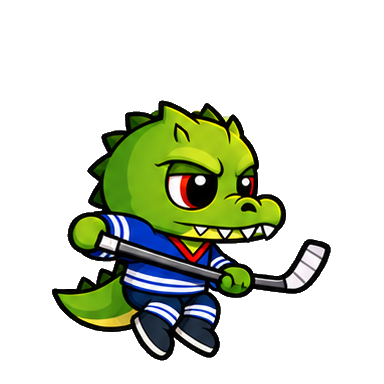
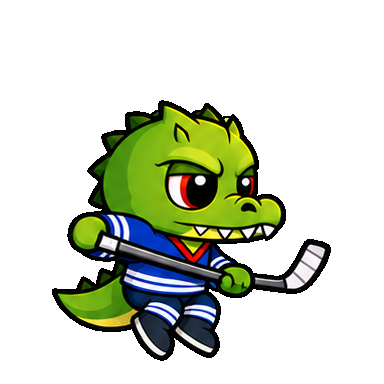
Deploy hero HQ v6 1788910633

diff --git a/assets/index-B0GLzztb.js b/assets/index-B0GLzztb.js
@@ -6357,14 +6357,14 @@ return new `+this.key+`();
  * @author       Richard Davey <rich@phaser.io>
  * @copyright    2013-2025 Phaser Studio Inc.
  * @license      {@link https://opensource.org/licenses/MIT|MIT License}
- */p.exports={Format:t(27902),Pad:t(41836),RemoveAt:t(33628),Reverse:t(27671),UppercaseFirst:t(35355),UUID:t(45650)}})},Z={};function $(p){var S=Z[p];if(S!==void 0)return S.exports;var t=Z[p]={exports:{}};return b[p](t,t.exports,$),t.exports}$.g=(function(){if(typeof globalThis=="object")return globalThis;try{return this||new Function("return this")()}catch{if(typeof window=="object")return window}})();var Q=$(85454);return Q})())})(Gt)),Gt.exports}var de=fe();const ct=le(de),Ht="notebook-grid-cell",Tt=28;function ve(tt){if(tt.textures.exists(Ht))return;const et=document.createElement("canvas");et.width=Tt,et.height=Tt;const b=et.getContext("2d");b&&(b.fillStyle="#f4f1e8",b.fillRect(0,0,Tt,Tt),b.strokeStyle="#9eb6d4",b.lineWidth=1,b.beginPath(),b.moveTo(Tt-.5,0),b.lineTo(Tt-.5,Tt),b.moveTo(0,Tt-.5),b.lineTo(Tt,Tt-.5),b.stroke(),tt.textures.addCanvas(Ht,et))}function Ut(tt,et=-20){ve(tt);const{width:b,height:Z}=tt.scale,$=tt.add.tileSprite(0,0,Math.max(b,1),Math.max(Z,1),Ht).setOrigin(0,0).setScrollFactor(0).setDepth(et),Q=p=>{$.setSize(p.width,p.height)};return tt.scale.on("resize",Q),tt.events.once(ct.Scenes.Events.SHUTDOWN,()=>{tt.scale.off("resize",Q)}),$}const Pt="#1f2a44",bt="#4a5a78",Zt="pickup-key";function ce(tt){if(tt.textures.exists(Zt))return;const et=48,b=28,Z=document.createElement("canvas");Z.width=et,Z.height=b;const $=Z.getContext("2d");$&&($.strokeStyle=Pt,$.fillStyle="#e8c86a",$.lineWidth=2.2,$.lineJoin="round",$.lineCap="round",$.beginPath(),$.arc(12,14,9,0,Math.PI*2),$.fill(),$.stroke(),$.beginPath(),$.arc(12,14,4,0,Math.PI*2),$.stroke(),$.beginPath(),$.moveTo(20,14),$.lineTo(42,14),$.stroke(),$.beginPath(),$.moveTo(34,14),$.lineTo(34,20),$.moveTo(40,14),$.lineTo(40,22),$.stroke(),tt.textures.addCanvas(Zt,Z))}class pe extends ct.Scene{constructor(){super("boot")}preload(){const et="/DundeeGame3.0/";this.load.spritesheet("crocodile",`${et}assets/crocodile-hero/dundee-hockey-v5.png`,{frameWidth:256,frameHeight:256}),this.load.image("platform",`${et}assets/platform_static.png`),this.load.image("saw",`${et}assets/saw_blade.png`),this.load.image("spikes",`${et}assets/spike_trap.png`),this.load.image("spikes5",`${et}assets/spikes_5.png`),this.load.image("pendulum",`${et}assets/pendulum.png`)}create(){ce(this),this.textures.get("crocodile").setFilter(ct.Textures.FilterMode.LINEAR),this.anims.create({key:"idle",frames:this.anims.generateFrameNumbers("crocodile",{start:0,end:3}),frameRate:4,repeat:-1}),this.anims.create({key:"run",frames:this.anims.generateFrameNumbers("crocodile",{start:4,end:7}),frameRate:10,repeat:-1}),this.anims.create({key:"jump",frames:this.anims.generateFrameNumbers("crocodile",{start:8,end:11}),frameRate:8,repeat:0}),this.anims.create({key:"lie",frames:this.anims.generateFrameNumbers("crocodile",{start:12,end:15}),frameRate:6,repeat:-1}),this.scene.start("menu")}}function Et(){var tt;return((tt=window.Telegram)==null?void 0:tt.WebApp)??null}function zt(){var tt;return((tt=Et())==null?void 0:tt.initData)??""}const Nt="".replace(/\/$/,"");function Bt(){return!!Nt&&!Nt.includes("localhost")}async function St(tt,et){if(!Nt)throw new Error("API offline");const b={"content-type":"application/json","x-telegram-init-data":zt(),...et==null?void 0:et.headers};let Z;try{Z=await fetch(`${Nt}${tt}`,{...et,headers:b,body:(et==null?void 0:et.json)!==void 0?JSON.stringify(et.json):et==null?void 0:et.body})}catch{throw new Error("API unreachable")}const $=await Z.json().catch(()=>({}));if(!Z.ok)throw new Error($.message??$.error??`HTTP ${Z.status}`);return $}const wt=ct.Display.Color.HexStringToColor(Pt).color;function Jt(tt,et,b,Z){tt.beginPath();for(let Q=0;Q<=28;Q++){const p=Q/28*Math.PI*2,S=1+Math.sin(Q*2.3)*.04+Math.cos(Q*1.7)*.03,t=et+Math.cos(p)*Z*S,d=b+Math.sin(p)*Z*S;Q===0?tt.moveTo(t,d):tt.lineTo(t,d)}tt.closePath(),tt.strokePath()}function Qt(tt,et,b,Z,$,Q){const p=et-Z/2,S=et+Z/2,t=b-$/2,d=b+$/2,c=Math.min(Q,Z/2,$/2),h=(s,o,i)=>{const a=1+Math.sin(i*1.9)*.012+Math.cos(i*2.4)*.01;return{x:et+(s-et)*a,y:b+(o-b)*a}},r=[],n=(s,o,i,a)=>{for(let f=0;f<=8;f++){const u=i+(a-i)*f/8;r.push(h(s+Math.cos(u)*c,o+Math.sin(u)*c,r.length))}},e=(s,o,i,a,l)=>{for(let f=1;f<l;f++){const u=f/l;r.push(h(s+(i-s)*u,o+(a-o)*u,r.length))}};n(p+c,t+c,Math.PI,Math.PI*1.5),e(p+c,t,S-c,t,12),n(S-c,t+c,-Math.PI/2,0),e(S,t+c,S,d-c,6),n(S-c,d-c,0,Math.PI/2),e(S-c,d,p+c,d,12),n(p+c,d-c,Math.PI/2,Math.PI),e(p,d-c,p,t+c,6),tt.beginPath(),r.forEach((s,o)=>{o===0?tt.moveTo(s.x,s.y):tt.lineTo(s.x,s.y)}),tt.closePath(),tt.strokePath()}function me(tt,et,b,Z){const $=Z==="up"?b-12:b+12,Q=Z==="up"?b+10:b-10;tt.beginPath(),tt.moveTo(et-16,Q),tt.lineTo(et,$),tt.lineTo(et+16,Q),tt.strokePath(),tt.beginPath(),tt.moveTo(et-14,Q-(Z==="up"?1:-1)),tt.lineTo(et,$+(Z==="up"?2:-2)),tt.lineTo(et+14,Q+(Z==="up"?1:-1)),tt.strokePath()}function $t(tt,et,b,Z,$=30){const Q=tt.add.container(et,b).setScrollFactor(0).setDepth($),p=tt.add.graphics();p.lineStyle(2.5,wt,.92),Jt(p,0,0,34),p.lineStyle(2.2,wt,.88),Jt(p,.8,-.6,34),p.lineStyle(3,wt,.95),me(p,0,0,Z),Q.add(p);const S=tt.add.zone(0,0,76,76).setOrigin(.5).setInteractive({useHandCursor:!0});return Q.add(S),S.on("pointerover",()=>Q.setAlpha(.85)),S.on("pointerout",()=>Q.setAlpha(1)),S.on("pointerdown",()=>Q.setScale(.94)),S.on("pointerup",()=>Q.setScale(1)),S.on("pointerupoutside",()=>Q.setScale(1)),{root:Q,hit:S}}function Ct(tt,et,b,Z,$,Q){const p=(Q==null?void 0:Q.width)??230,S=(Q==null?void 0:Q.height)??46,t=(Q==null?void 0:Q.depth)??10,d=tt.add.container(et,b).setDepth(t),c=tt.add.graphics();Q!=null&&Q.paperFill&&(c.fillStyle(16052712,.94),c.fillRoundedRect(-p/2,-S/2,p,S,12)),c.lineStyle(2.4,wt,.9),Qt(c,0,0,p,S,14),c.lineStyle(1.8,wt,.55),Qt(c,1.2,-.8,p,S,14),d.add(c);const h=tt.add.text(0,0,Z,{fontFamily:"Georgia, 'Times New Roman', serif",fontSize:(Q==null?void 0:Q.fontSize)??"20px",color:Pt,fontStyle:"italic",align:"center"}).setOrigin(.5);d.add(h);const r=tt.add.zone(0,0,p+8,S+8).setOrigin(.5).setInteractive({useHandCursor:!0});return d.add(r),r.on("pointerover",()=>d.setAlpha(.82)),r.on("pointerout",()=>d.setAlpha(1)),r.on("pointerdown",()=>{d.setScale(.96),$()}),r.on("pointerup",()=>d.setScale(1)),r.on("pointerupoutside",()=>d.setScale(1)),{root:d,hit:r}}const ge=["240579504"];function ne(){var et,b,Z;const tt=(Z=(b=(et=Et())==null?void 0:et.initDataUnsafe)==null?void 0:b.user)==null?void 0:Z.id;return tt==null?!1:ge.includes(String(tt))}class xe extends ct.Scene{constructor(){super("admin");ft(this,"panel")}create(){const{width:b,height:Z}=this.scale;if(Ut(this),this.add.text(b/2,Z*.08,"Админ",{fontFamily:"Georgia, 'Times New Roman', serif",fontSize:"30px",color:Pt,fontStyle:"italic"}).setOrigin(.5),this.add.text(b/2,Z*.14,"Рассылка в game-бота",{fontFamily:"Georgia, 'Times New Roman', serif",fontSize:"14px",color:bt,fontStyle:"italic"}).setOrigin(.5),!ne()){this.add.text(b/2,Z*.4,"Нет доступа",{fontFamily:"Georgia, 'Times New Roman', serif",fontSize:"18px",color:Pt,fontStyle:"italic"}).setOrigin(.5),Ct(this,b/2,Z*.9,"В меню",()=>{this.scene.start("menu")});return}this.mountForm(),Ct(this,b/2,Z*.92,"В меню",()=>{this.unmountForm(),this.scene.start("menu")}),this.events.once(ct.Scenes.Events.SHUTDOWN,()=>this.unmountForm())}mountForm(){this.unmountForm();const b=document.getElementById("game")??document.body,Z=document.createElement("div");Z.id="dundee-admin-panel",Z.style.cssText=["position:absolute","left:50%","top:16%","transform:translateX(-50%)","width:92%","max-width:420px","box-sizing:border-box","padding:0","z-index:40","font-family:Georgia,serif","color:#1f2a44","display:flex","flex-direction:column","gap:10px","overflow:hidden"].join(";");const $=document.createElement("textarea");$.placeholder="Текст сообщения…",$.rows=5,$.style.cssText=["display:block","width:100%","max-width:100%","box-sizing:border-box","padding:10px","border:2px solid #1f2a44","border-radius:10px","background:#f4f1e8","resize:vertical","font:italic 15px Georgia,serif"].join(";");const Q=document.createElement("input");Q.type="file",Q.accept="image/*",Q.style.cssText="display:block;width:100%;max-width:100%;box-sizing:border-box;font:14px Georgia,serif;";const p=document.createElement("div");p.style.cssText="min-height:1.2em;font:italic 13px Georgia,serif;color:#4a5a78;word-break:break-word;";const S=document.createElement("button");S.textContent="Отправить всем",S.style.cssText=["display:block","width:100%","box-sizing:border-box","padding:12px","border:2px solid #1f2a44","border-radius:12px","background:#f4f1e8","font:italic 16px Georgia,serif","cursor:pointer"].join(";"),S.onclick=()=>{var t;this.send($.value,((t=Q.files)==null?void 0:t[0])??null,p,S)},!Bt()||!zt()?(p.textContent="Нужен API + вход из Telegram. Либо используй /admin в боте.",S.disabled=!0):St("/admin/stats").then(t=>{p.textContent=`Активных: ${t.active} · заблок.: ${t.blocked} · всего: ${t.total}`}).catch(()=>{p.textContent="Не удалось загрузить статистику"}),Z.append($,Q,S,p),b.style.position=b.style.position||"relative",b.appendChild(Z),this.panel=Z}unmountForm(){var b;(b=this.panel)==null||b.remove(),this.panel=void 0}async send(b,Z,$,Q){if(!b.trim()&&!Z){$.textContent="Нужен текст или картинка";return}Q.disabled=!0,$.textContent="Отправка…";try{let p;Z&&(p=await new Promise((t,d)=>{const c=new FileReader;c.onload=()=>t(String(c.result)),c.onerror=()=>d(new Error("file read failed")),c.readAsDataURL(Z)}));const S=await St("/admin/broadcast",{method:"POST",json:{text:b.trim(),photoBase64:p,photoFilename:Z==null?void 0:Z.name}});$.textContent=`Готово: ${S.sent}/${S.targets} · блок ${S.blocked} · ошибки ${S.failed}`}catch(p){$.textContent=p.message}finally{Q.disabled=!1}}}class ye extends ct.Scene{constructor(){super("menu");ft(this,"me",null);ft(this,"statusText")}create(){const{width:b,height:Z}=this.scale;Ut(this),this.add.text(b/2,Z*.1,"DUNDEE RUNNER",{fontFamily:"Georgia, 'Times New Roman', serif",fontSize:"34px",color:Pt,fontStyle:"italic"}).setOrigin(.5),this.add.sprite(b/2,Z*.4,"crocodile").setOrigin(.5,1).setScale(.72).setDepth(5).play("idle"),this.statusText=this.add.text(b/2,Z*.46,"Загрузка…",{fontFamily:"Georgia, 'Times New Roman', serif",fontSize:"14px",color:bt,align:"center",fontStyle:"italic"}).setOrigin(.5),Ct(this,b/2,Z*.56,"Играть",()=>{this.scene.start("play")}),Ct(this,b/2,Z*.66,"Рекорды",()=>{this.scene.start("leaderboard")}),Ct(this,b/2,Z*.76,"Магазин VPN",()=>{this.openShop()}),Ct(this,b/2,Z*.86,"Открыть VPN-бот",()=>{var Q,p,S;const $=((Q=this.me)==null?void 0:Q.vpnBotUrl)??"https://t.me/VpnDundeeBot";((S=(p=Et())==null?void 0:p.openTelegramLink)==null?void 0:S.call(p,$))??window.open($,"_blank")}),ne()&&Ct(this,b/2,Z*.95,"Админ",()=>{this.scene.start("admin")},{height:40,fontSize:"16px"}),this.refreshMe()}async refreshMe(){if(!Bt()){this.statusText.setText(`Офлайн-режим
+ */p.exports={Format:t(27902),Pad:t(41836),RemoveAt:t(33628),Reverse:t(27671),UppercaseFirst:t(35355),UUID:t(45650)}})},Z={};function $(p){var S=Z[p];if(S!==void 0)return S.exports;var t=Z[p]={exports:{}};return b[p](t,t.exports,$),t.exports}$.g=(function(){if(typeof globalThis=="object")return globalThis;try{return this||new Function("return this")()}catch{if(typeof window=="object")return window}})();var Q=$(85454);return Q})())})(Gt)),Gt.exports}var de=fe();const ct=le(de),Ht="notebook-grid-cell",Tt=28;function ve(tt){if(tt.textures.exists(Ht))return;const et=document.createElement("canvas");et.width=Tt,et.height=Tt;const b=et.getContext("2d");b&&(b.fillStyle="#f4f1e8",b.fillRect(0,0,Tt,Tt),b.strokeStyle="#9eb6d4",b.lineWidth=1,b.beginPath(),b.moveTo(Tt-.5,0),b.lineTo(Tt-.5,Tt),b.moveTo(0,Tt-.5),b.lineTo(Tt,Tt-.5),b.stroke(),tt.textures.addCanvas(Ht,et))}function Ut(tt,et=-20){ve(tt);const{width:b,height:Z}=tt.scale,$=tt.add.tileSprite(0,0,Math.max(b,1),Math.max(Z,1),Ht).setOrigin(0,0).setScrollFactor(0).setDepth(et),Q=p=>{$.setSize(p.width,p.height)};return tt.scale.on("resize",Q),tt.events.once(ct.Scenes.Events.SHUTDOWN,()=>{tt.scale.off("resize",Q)}),$}const Pt="#1f2a44",bt="#4a5a78",Zt="pickup-key";function ce(tt){if(tt.textures.exists(Zt))return;const et=48,b=28,Z=document.createElement("canvas");Z.width=et,Z.height=b;const $=Z.getContext("2d");$&&($.strokeStyle=Pt,$.fillStyle="#e8c86a",$.lineWidth=2.2,$.lineJoin="round",$.lineCap="round",$.beginPath(),$.arc(12,14,9,0,Math.PI*2),$.fill(),$.stroke(),$.beginPath(),$.arc(12,14,4,0,Math.PI*2),$.stroke(),$.beginPath(),$.moveTo(20,14),$.lineTo(42,14),$.stroke(),$.beginPath(),$.moveTo(34,14),$.lineTo(34,20),$.moveTo(40,14),$.lineTo(40,22),$.stroke(),tt.textures.addCanvas(Zt,Z))}class pe extends ct.Scene{constructor(){super("boot")}preload(){const et="/DundeeGame3.0/";this.load.spritesheet("crocodile",`${et}assets/crocodile-hero/dundee-hockey-v6.png`,{frameWidth:384,frameHeight:384}),this.load.image("platform",`${et}assets/platform_static.png`),this.load.image("saw",`${et}assets/saw_blade.png`),this.load.image("spikes",`${et}assets/spike_trap.png`),this.load.image("spikes5",`${et}assets/spikes_5.png`),this.load.image("pendulum",`${et}assets/pendulum.png`)}create(){ce(this),this.textures.get("crocodile").setFilter(ct.Textures.FilterMode.LINEAR),this.anims.create({key:"idle",frames:this.anims.generateFrameNumbers("crocodile",{start:0,end:3}),frameRate:4,repeat:-1}),this.anims.create({key:"run",frames:this.anims.generateFrameNumbers("crocodile",{start:4,end:7}),frameRate:10,repeat:-1}),this.anims.create({key:"jump",frames:this.anims.generateFrameNumbers("crocodile",{start:8,end:11}),frameRate:8,repeat:0}),this.anims.create({key:"lie",frames:this.anims.generateFrameNumbers("crocodile",{start:12,end:15}),frameRate:6,repeat:-1}),this.scene.start("menu")}}function Et(){var tt;return((tt=window.Telegram)==null?void 0:tt.WebApp)??null}function zt(){var tt;return((tt=Et())==null?void 0:tt.initData)??""}const Nt="".replace(/\/$/,"");function Bt(){return!!Nt&&!Nt.includes("localhost")}async function St(tt,et){if(!Nt)throw new Error("API offline");const b={"content-type":"application/json","x-telegram-init-data":zt(),...et==null?void 0:et.headers};let Z;try{Z=await fetch(`${Nt}${tt}`,{...et,headers:b,body:(et==null?void 0:et.json)!==void 0?JSON.stringify(et.json):et==null?void 0:et.body})}catch{throw new Error("API unreachable")}const $=await Z.json().catch(()=>({}));if(!Z.ok)throw new Error($.message??$.error??`HTTP ${Z.status}`);return $}const wt=ct.Display.Color.HexStringToColor(Pt).color;function Jt(tt,et,b,Z){tt.beginPath();for(let Q=0;Q<=28;Q++){const p=Q/28*Math.PI*2,S=1+Math.sin(Q*2.3)*.04+Math.cos(Q*1.7)*.03,t=et+Math.cos(p)*Z*S,d=b+Math.sin(p)*Z*S;Q===0?tt.moveTo(t,d):tt.lineTo(t,d)}tt.closePath(),tt.strokePath()}function Qt(tt,et,b,Z,$,Q){const p=et-Z/2,S=et+Z/2,t=b-$/2,d=b+$/2,c=Math.min(Q,Z/2,$/2),h=(s,o,i)=>{const a=1+Math.sin(i*1.9)*.012+Math.cos(i*2.4)*.01;return{x:et+(s-et)*a,y:b+(o-b)*a}},r=[],n=(s,o,i,a)=>{for(let f=0;f<=8;f++){const u=i+(a-i)*f/8;r.push(h(s+Math.cos(u)*c,o+Math.sin(u)*c,r.length))}},e=(s,o,i,a,l)=>{for(let f=1;f<l;f++){const u=f/l;r.push(h(s+(i-s)*u,o+(a-o)*u,r.length))}};n(p+c,t+c,Math.PI,Math.PI*1.5),e(p+c,t,S-c,t,12),n(S-c,t+c,-Math.PI/2,0),e(S,t+c,S,d-c,6),n(S-c,d-c,0,Math.PI/2),e(S-c,d,p+c,d,12),n(p+c,d-c,Math.PI/2,Math.PI),e(p,d-c,p,t+c,6),tt.beginPath(),r.forEach((s,o)=>{o===0?tt.moveTo(s.x,s.y):tt.lineTo(s.x,s.y)}),tt.closePath(),tt.strokePath()}function me(tt,et,b,Z){const $=Z==="up"?b-12:b+12,Q=Z==="up"?b+10:b-10;tt.beginPath(),tt.moveTo(et-16,Q),tt.lineTo(et,$),tt.lineTo(et+16,Q),tt.strokePath(),tt.beginPath(),tt.moveTo(et-14,Q-(Z==="up"?1:-1)),tt.lineTo(et,$+(Z==="up"?2:-2)),tt.lineTo(et+14,Q+(Z==="up"?1:-1)),tt.strokePath()}function $t(tt,et,b,Z,$=30){const Q=tt.add.container(et,b).setScrollFactor(0).setDepth($),p=tt.add.graphics();p.lineStyle(2.5,wt,.92),Jt(p,0,0,34),p.lineStyle(2.2,wt,.88),Jt(p,.8,-.6,34),p.lineStyle(3,wt,.95),me(p,0,0,Z),Q.add(p);const S=tt.add.zone(0,0,76,76).setOrigin(.5).setInteractive({useHandCursor:!0});return Q.add(S),S.on("pointerover",()=>Q.setAlpha(.85)),S.on("pointerout",()=>Q.setAlpha(1)),S.on("pointerdown",()=>Q.setScale(.94)),S.on("pointerup",()=>Q.setScale(1)),S.on("pointerupoutside",()=>Q.setScale(1)),{root:Q,hit:S}}function Ct(tt,et,b,Z,$,Q){const p=(Q==null?void 0:Q.width)??230,S=(Q==null?void 0:Q.height)??46,t=(Q==null?void 0:Q.depth)??10,d=tt.add.container(et,b).setDepth(t),c=tt.add.graphics();Q!=null&&Q.paperFill&&(c.fillStyle(16052712,.94),c.fillRoundedRect(-p/2,-S/2,p,S,12)),c.lineStyle(2.4,wt,.9),Qt(c,0,0,p,S,14),c.lineStyle(1.8,wt,.55),Qt(c,1.2,-.8,p,S,14),d.add(c);const h=tt.add.text(0,0,Z,{fontFamily:"Georgia, 'Times New Roman', serif",fontSize:(Q==null?void 0:Q.fontSize)??"20px",color:Pt,fontStyle:"italic",align:"center"}).setOrigin(.5);d.add(h);const r=tt.add.zone(0,0,p+8,S+8).setOrigin(.5).setInteractive({useHandCursor:!0});return d.add(r),r.on("pointerover",()=>d.setAlpha(.82)),r.on("pointerout",()=>d.setAlpha(1)),r.on("pointerdown",()=>{d.setScale(.96),$()}),r.on("pointerup",()=>d.setScale(1)),r.on("pointerupoutside",()=>d.setScale(1)),{root:d,hit:r}}const ge=["240579504"];function ne(){var et,b,Z;const tt=(Z=(b=(et=Et())==null?void 0:et.initDataUnsafe)==null?void 0:b.user)==null?void 0:Z.id;return tt==null?!1:ge.includes(String(tt))}class xe extends ct.Scene{constructor(){super("admin");ft(this,"panel")}create(){const{width:b,height:Z}=this.scale;if(Ut(this),this.add.text(b/2,Z*.08,"Админ",{fontFamily:"Georgia, 'Times New Roman', serif",fontSize:"30px",color:Pt,fontStyle:"italic"}).setOrigin(.5),this.add.text(b/2,Z*.14,"Рассылка в game-бота",{fontFamily:"Georgia, 'Times New Roman', serif",fontSize:"14px",color:bt,fontStyle:"italic"}).setOrigin(.5),!ne()){this.add.text(b/2,Z*.4,"Нет доступа",{fontFamily:"Georgia, 'Times New Roman', serif",fontSize:"18px",color:Pt,fontStyle:"italic"}).setOrigin(.5),Ct(this,b/2,Z*.9,"В меню",()=>{this.scene.start("menu")});return}this.mountForm(),Ct(this,b/2,Z*.92,"В меню",()=>{this.unmountForm(),this.scene.start("menu")}),this.events.once(ct.Scenes.Events.SHUTDOWN,()=>this.unmountForm())}mountForm(){this.unmountForm();const b=document.getElementById("game")??document.body,Z=document.createElement("div");Z.id="dundee-admin-panel",Z.style.cssText=["position:absolute","left:50%","top:16%","transform:translateX(-50%)","width:92%","max-width:420px","box-sizing:border-box","padding:0","z-index:40","font-family:Georgia,serif","color:#1f2a44","display:flex","flex-direction:column","gap:10px","overflow:hidden"].join(";");const $=document.createElement("textarea");$.placeholder="Текст сообщения…",$.rows=5,$.style.cssText=["display:block","width:100%","max-width:100%","box-sizing:border-box","padding:10px","border:2px solid #1f2a44","border-radius:10px","background:#f4f1e8","resize:vertical","font:italic 15px Georgia,serif"].join(";");const Q=document.createElement("input");Q.type="file",Q.accept="image/*",Q.style.cssText="display:block;width:100%;max-width:100%;box-sizing:border-box;font:14px Georgia,serif;";const p=document.createElement("div");p.style.cssText="min-height:1.2em;font:italic 13px Georgia,serif;color:#4a5a78;word-break:break-word;";const S=document.createElement("button");S.textContent="Отправить всем",S.style.cssText=["display:block","width:100%","box-sizing:border-box","padding:12px","border:2px solid #1f2a44","border-radius:12px","background:#f4f1e8","font:italic 16px Georgia,serif","cursor:pointer"].join(";"),S.onclick=()=>{var t;this.send($.value,((t=Q.files)==null?void 0:t[0])??null,p,S)},!Bt()||!zt()?(p.textContent="Нужен API + вход из Telegram. Либо используй /admin в боте.",S.disabled=!0):St("/admin/stats").then(t=>{p.textContent=`Активных: ${t.active} · заблок.: ${t.blocked} · всего: ${t.total}`}).catch(()=>{p.textContent="Не удалось загрузить статистику"}),Z.append($,Q,S,p),b.style.position=b.style.position||"relative",b.appendChild(Z),this.panel=Z}unmountForm(){var b;(b=this.panel)==null||b.remove(),this.panel=void 0}async send(b,Z,$,Q){if(!b.trim()&&!Z){$.textContent="Нужен текст или картинка";return}Q.disabled=!0,$.textContent="Отправка…";try{let p;Z&&(p=await new Promise((t,d)=>{const c=new FileReader;c.onload=()=>t(String(c.result)),c.onerror=()=>d(new Error("file read failed")),c.readAsDataURL(Z)}));const S=await St("/admin/broadcast",{method:"POST",json:{text:b.trim(),photoBase64:p,photoFilename:Z==null?void 0:Z.name}});$.textContent=`Готово: ${S.sent}/${S.targets} · блок ${S.blocked} · ошибки ${S.failed}`}catch(p){$.textContent=p.message}finally{Q.disabled=!1}}}class ye extends ct.Scene{constructor(){super("menu");ft(this,"me",null);ft(this,"statusText")}create(){const{width:b,height:Z}=this.scale;Ut(this),this.add.text(b/2,Z*.1,"DUNDEE RUNNER",{fontFamily:"Georgia, 'Times New Roman', serif",fontSize:"34px",color:Pt,fontStyle:"italic"}).setOrigin(.5),this.add.sprite(b/2,Z*.4,"crocodile").setOrigin(.5,1).setScale(.5).setDepth(5).play("idle"),this.statusText=this.add.text(b/2,Z*.46,"Загрузка…",{fontFamily:"Georgia, 'Times New Roman', serif",fontSize:"14px",color:bt,align:"center",fontStyle:"italic"}).setOrigin(.5),Ct(this,b/2,Z*.56,"Играть",()=>{this.scene.start("play")}),Ct(this,b/2,Z*.66,"Рекорды",()=>{this.scene.start("leaderboard")}),Ct(this,b/2,Z*.76,"Магазин VPN",()=>{this.openShop()}),Ct(this,b/2,Z*.86,"Открыть VPN-бот",()=>{var Q,p,S;const $=((Q=this.me)==null?void 0:Q.vpnBotUrl)??"https://t.me/VpnDundeeBot";((S=(p=Et())==null?void 0:p.openTelegramLink)==null?void 0:S.call(p,$))??window.open($,"_blank")}),ne()&&Ct(this,b/2,Z*.95,"Админ",()=>{this.scene.start("admin")},{height:40,fontSize:"16px"}),this.refreshMe()}async refreshMe(){if(!Bt()){this.statusText.setText(`Офлайн-режим
 Ключи/VPN-награды появятся после подключения API`);return}if(!zt()){this.statusText.setText("Открой игру из Telegram-бота");return}try{this.me=await St("/me"),this.statusText.setText(`Ключи: ${this.me.coinBalance}
 1 день = ${this.me.shop.oneDayCoins} · 3 дня = ${this.me.shop.threeDayCoins}
 Лимит: ${this.me.limits.dayUsed}/${this.me.limits.dayMax} дн. сегодня`)}catch{this.statusText.setText("API недоступен — можно играть офлайн")}}async openShop(){var Z,$;if(!Bt()){alert("Магазин VPN заработает, когда подключится API.");return}if(this.me||await this.refreshMe(),!(!this.me||!window.confirm(`Обменять ключи на VPN?
 
 OK = 1 день (${this.me.shop.oneDayCoins})
 Cancel = отмена`)))try{const Q=this.me.coinBalance>=this.me.shop.threeDayCoins&&window.confirm("Купить 3 дня? OK=3, Cancel=1")?3:1,p=await St("/redeem",{method:"POST",json:{days:Q}});alert(`${p.message}
-Баланс: ${p.coinBalance}`),($=(Z=Et())==null?void 0:Z.openTelegramLink)==null||$.call(Z,p.vpnBotUrl),await this.refreshMe()}catch(Q){alert(Q.message)}}}const re="dundee_runner_leaderboard_v1";function Te(){var b,Z;const tt=(Z=(b=Et())==null?void 0:b.initDataUnsafe)==null?void 0:Z.user;return((tt==null?void 0:tt.first_name)??"").trim()||"Игрок"}function Se(){return Te()}function ae(){try{const tt=localStorage.getItem(re);if(!tt)return[];const et=JSON.parse(tt);return Array.isArray(et)?et:[]}catch{return[]}}function Ce(tt){localStorage.setItem(re,JSON.stringify(tt.slice(0,10)))}function Ee(tt,et=Se()){const b=Math.floor(tt);if(b<=0)return;const Z=ae(),$=Z.find(Q=>Q.name===et);$?$.distance=Math.max($.distance,b):Z.push({name:et,distance:b}),Z.sort((Q,p)=>p.distance-Q.distance),Ce(Z)}function Pe(){return ae().sort((tt,et)=>et.distance-tt.distance).slice(0,10).map((tt,et)=>({rank:et+1,name:tt.name,distance:tt.distance}))}async function Ae(){var tt;if(Bt())try{const et=await St("/leaderboard");if((tt=et.entries)!=null&&tt.length)return et.entries}catch{}return Pe()}const Xt=5,jt=5,kt=5,qt=["saw","spikes","pendulum","spikes5"],Vt=.82,It=256,Ot=.26,Me=-560,Re=100,Yt=120,_t=80,te=128,ee=88,ie=120,Fe=160,Le=56,Oe=48,De=192,Wt=280,we=8,Be=160,Ie=22,se=92,Ge=3,Ne=200;class Ue extends ct.Scene{constructor(){super("play");ft(this,"player");ft(this,"ground");ft(this,"obstacles",[]);ft(this,"coins",[]);ft(this,"hud");ft(this,"overlay");ft(this,"runId",null);ft(this,"seed","local");ft(this,"rng",()=>Math.random());ft(this,"dead",!1);ft(this,"distance",0);ft(this,"pickupCoins",0);ft(this,"reviveCount",0);ft(this,"extraRevives",0);ft(this,"freeRevivesPerRun",Xt);ft(this,"maxPackSize",jt);ft(this,"starsPerAttempt",kt);ft(this,"scrollSpeed",Wt);ft(this,"coyoteMs",0);ft(this,"jumpBufferMs",0);ft(this,"spawnAcc",0);ft(this,"startedAt",0);ft(this,"maxSpeedSeen",0);ft(this,"vpnBotUsername","VpnDundeeBot");ft(this,"paper");ft(this,"path");ft(this,"groundY",0);ft(this,"jumping",!1);ft(this,"obstacleIdx",0);ft(this,"ducking",!1);ft(this,"controls");ft(this,"spikes5Count",0)}init(){var b;this.dead=!1,this.distance=0,this.pickupCoins=0,this.reviveCount=0,this.extraRevives=0,this.freeRevivesPerRun=Xt,this.scrollSpeed=Wt,this.coyoteMs=0,this.jumpBufferMs=0,this.spawnAcc=0,this.maxSpeedSeen=0,this.runId=null,this.jumping=!1,this.obstacleIdx=0,this.ducking=!1,this.spikes5Count=0,this.clearWorldObjects(),(b=this.overlay)==null||b.destroy(!0),this.overlay=void 0,this.rng=this.mulberry32(42)}create(){const{width:b,height:Z}=this.scale;this.groundY=Z*Vt,this.obstacles=[],this.coins=[],this.paper=Ut(this);const $=24;this.path=this.add.tileSprite(b/2,this.groundY+$/2,b+4,$,"platform").setScrollFactor(0).setDepth(2),this.ground=this.physics.add.staticGroup();const Q=Math.max(Z-this.groundY+80,120),p=this.add.rectangle(b/2,this.groundY+Q/2,b*4,Q,0,0).setScrollFactor(0);this.physics.add.existing(p,!0),this.ground.add(p);const S=d=>{this.groundY=d.height*Vt,this.path.setPosition(d.width/2,this.groundY+$/2),this.path.width=d.width+4};this.scale.on("resize",S),this.events.once(ct.Scenes.Events.SHUTDOWN,()=>{this.scale.off("resize",S)}),this.player=this.physics.add.sprite(b*.22,this.groundY+2,"crocodile"),this.player.setOrigin(.5,1),this.player.setScale(Ot),this.player.setCollideWorldBounds(!1),this.player.setDepth(10);const t=this.player.body;t.setSize(_t,te),t.setOffset(ee,ie),t.setMaxVelocity(600,1200),this.player.setBounce(0),this.player.play("run"),this.physics.add.collider(this.player,this.ground),this.hud=this.add.text(16,16,"…",{fontFamily:"Georgia, 'Times New Roman', serif",fontSize:"18px",color:Pt,fontStyle:"italic"}).setScrollFactor(0).setDepth(20),this.createControls(),this.startedAt=performance.now(),this.beginRun()}createControls(){var d,c,h,r;const{width:b,height:Z}=this.scale,$=(n,e,s)=>{const o=s+(e-s)*.55,i=Math.min(n*.28,120);return{upX:n*.5-i,downX:n*.5+i,y:o}},Q=$(b,Z,this.groundY),p=$t(this,Q.upX,Q.y,"up"),S=$t(this,Q.downX,Q.y,"down");this.controls=this.add.container(0,0,[p.root,S.root]).setDepth(30),p.hit.on("pointerdown",n=>{var e,s;(s=(e=n.event)==null?void 0:e.stopPropagation)==null||s.call(e),!this.dead&&(this.jumpBufferMs=Yt,this.setDuck(!1),this.tryJump())}),S.hit.on("pointerdown",n=>{var e,s;(s=(e=n.event)==null?void 0:e.stopPropagation)==null||s.call(e),!this.dead&&this.setDuck(!0)}),S.hit.on("pointerup",()=>this.setDuck(!1)),S.hit.on("pointerupoutside",()=>this.setDuck(!1)),(d=this.input.keyboard)==null||d.on("keydown-UP",()=>{this.dead||(this.jumpBufferMs=Yt,this.setDuck(!1),this.tryJump())}),(c=this.input.keyboard)==null||c.on("keydown-SPACE",()=>{this.dead||(this.jumpBufferMs=Yt,this.setDuck(!1),this.tryJump())}),(h=this.input.keyboard)==null||h.on("keydown-DOWN",()=>{this.dead||this.setDuck(!0)}),(r=this.input.keyboard)==null||r.on("keyup-DOWN",()=>this.setDuck(!1));const t=n=>{const e=n.height*Vt,s=$(n.width,n.height,e);p.root.setPosition(s.upX,s.y),S.root.setPosition(s.downX,s.y)};this.scale.on("resize",t),this.events.once(ct.Scenes.Events.SHUTDOWN,()=>{var n;this.scale.off("resize",t),(n=this.input.keyboard)==null||n.removeAllListeners()})}setDuck(b){if(this.ducking===b||b&&this.jumping)return;this.ducking=b;const Z=this.player.body;b?(Z.setSize(Fe,Le),Z.setOffset(Oe,De),this.player.setScale(Ot),this.player.play("lie",!0),this.haptic("light")):(Z.setSize(_t,te),Z.setOffset(ee,ie),this.player.setScale(Ot),this.dead||this.player.play("run",!0))}clearWorldObjects(){for(const b of this.obstacles)b.go.destroy();for(const b of this.coins)b.go.destroy();this.obstacles=[],this.coins=[]}haptic(b){var Z,$;try{($=(Z=Et())==null?void 0:Z.HapticFeedback)==null||$.impactOccurred(b)}catch{}}mulberry32(b){return()=>{let Z=b+=1831565813;return Z=Math.imul(Z^Z>>>15,Z|1),Z^=Z+Math.imul(Z^Z>>>7,Z|61),((Z^Z>>>14)>>>0)/4294967296}}freeLeft(){return Math.max(0,this.freeRevivesPerRun-this.reviveCount)}canContinue(){return this.freeLeft()>0||this.extraRevives>0}async beginRun(){if(this.rng=this.mulberry32(42),this.runId="local-dev",this.extraRevives=0,!(!Bt()||!zt()))try{const b=await St("/runs/start",{method:"POST",json:{}});this.runId=b.runId,this.seed=b.seed,this.freeRevivesPerRun=b.freeRevives??b.maxRevives??Xt,this.maxPackSize=b.maxPackSize??jt,this.starsPerAttempt=b.starsPerAttempt??kt,this.vpnBotUsername=b.vpnBotUsername;const Z=Number.parseInt(b.seed.slice(0,8),16)||1;this.rng=this.mulberry32(Z)}catch{this.runId="local-dev"}}tryJump(){const b=this.player.body;(b.blocked.down||b.touching.down||this.coyoteMs>0)&&this.jumpBufferMs>0&&(b.setVelocityY(Me),this.coyoteMs=0,this.jumpBufferMs=0,this.jumping=!0,this.player.play("jump",!0),this.haptic("medium"))}update(b,Z){try{this.tick(Z)}catch($){console.error("PlayScene tick error",$)}}tick(b){var S,t;if(this.dead)return;const Z=this.player.body;Z.blocked.down||Z.touching.down?(this.coyoteMs=Re,this.ducking?((S=this.player.anims.currentAnim)==null?void 0:S.key)!=="lie"&&this.player.play("lie",!0):this.jumping?(this.jumping=!1,this.player.play("run",!0)):((t=this.player.anims.currentAnim)==null?void 0:t.key)!=="run"&&this.player.play("run",!0)):this.coyoteMs=Math.max(0,this.coyoteMs-b),this.jumpBufferMs=Math.max(0,this.jumpBufferMs-b),this.jumpBufferMs>0&&this.tryJump(),this.scrollSpeed=Wt+Math.floor(this.distance/100)*we,this.maxSpeedSeen=Math.max(this.maxSpeedSeen,this.scrollSpeed/10);const Q=this.scrollSpeed*b/1e3;this.distance+=Q/Be,this.paper.tilePositionX+=Q,this.path.tilePositionX+=Q,this.spawnAcc+=b;const p=Math.max(1750-this.distance*.2,1300);this.spawnAcc>p&&(this.spawnAcc=0,this.spawnObstacle()),this.scrollWorld(Q,b),this.checkCollisions(),this.player.x=this.scale.width*.22,this.player.y>this.scale.height+80&&this.onHit(),this.hud.setText(`Дистанция: ${Math.floor(this.distance)} м
+Баланс: ${p.coinBalance}`),($=(Z=Et())==null?void 0:Z.openTelegramLink)==null||$.call(Z,p.vpnBotUrl),await this.refreshMe()}catch(Q){alert(Q.message)}}}const re="dundee_runner_leaderboard_v1";function Te(){var b,Z;const tt=(Z=(b=Et())==null?void 0:b.initDataUnsafe)==null?void 0:Z.user;return((tt==null?void 0:tt.first_name)??"").trim()||"Игрок"}function Se(){return Te()}function ae(){try{const tt=localStorage.getItem(re);if(!tt)return[];const et=JSON.parse(tt);return Array.isArray(et)?et:[]}catch{return[]}}function Ce(tt){localStorage.setItem(re,JSON.stringify(tt.slice(0,10)))}function Ee(tt,et=Se()){const b=Math.floor(tt);if(b<=0)return;const Z=ae(),$=Z.find(Q=>Q.name===et);$?$.distance=Math.max($.distance,b):Z.push({name:et,distance:b}),Z.sort((Q,p)=>p.distance-Q.distance),Ce(Z)}function Pe(){return ae().sort((tt,et)=>et.distance-tt.distance).slice(0,10).map((tt,et)=>({rank:et+1,name:tt.name,distance:tt.distance}))}async function Ae(){var tt;if(Bt())try{const et=await St("/leaderboard");if((tt=et.entries)!=null&&tt.length)return et.entries}catch{}return Pe()}const Xt=5,jt=5,kt=5,qt=["saw","spikes","pendulum","spikes5"],Vt=.82,It=384,Ot=.17,Me=-560,Re=100,Yt=120,_t=120,te=192,ee=132,ie=180,Fe=240,Le=84,Oe=72,De=288,Wt=280,we=8,Be=160,Ie=22,se=92,Ge=3,Ne=200;class Ue extends ct.Scene{constructor(){super("play");ft(this,"player");ft(this,"ground");ft(this,"obstacles",[]);ft(this,"coins",[]);ft(this,"hud");ft(this,"overlay");ft(this,"runId",null);ft(this,"seed","local");ft(this,"rng",()=>Math.random());ft(this,"dead",!1);ft(this,"distance",0);ft(this,"pickupCoins",0);ft(this,"reviveCount",0);ft(this,"extraRevives",0);ft(this,"freeRevivesPerRun",Xt);ft(this,"maxPackSize",jt);ft(this,"starsPerAttempt",kt);ft(this,"scrollSpeed",Wt);ft(this,"coyoteMs",0);ft(this,"jumpBufferMs",0);ft(this,"spawnAcc",0);ft(this,"startedAt",0);ft(this,"maxSpeedSeen",0);ft(this,"vpnBotUsername","VpnDundeeBot");ft(this,"paper");ft(this,"path");ft(this,"groundY",0);ft(this,"jumping",!1);ft(this,"obstacleIdx",0);ft(this,"ducking",!1);ft(this,"controls");ft(this,"spikes5Count",0)}init(){var b;this.dead=!1,this.distance=0,this.pickupCoins=0,this.reviveCount=0,this.extraRevives=0,this.freeRevivesPerRun=Xt,this.scrollSpeed=Wt,this.coyoteMs=0,this.jumpBufferMs=0,this.spawnAcc=0,this.maxSpeedSeen=0,this.runId=null,this.jumping=!1,this.obstacleIdx=0,this.ducking=!1,this.spikes5Count=0,this.clearWorldObjects(),(b=this.overlay)==null||b.destroy(!0),this.overlay=void 0,this.rng=this.mulberry32(42)}create(){const{width:b,height:Z}=this.scale;this.groundY=Z*Vt,this.obstacles=[],this.coins=[],this.paper=Ut(this);const $=24;this.path=this.add.tileSprite(b/2,this.groundY+$/2,b+4,$,"platform").setScrollFactor(0).setDepth(2),this.ground=this.physics.add.staticGroup();const Q=Math.max(Z-this.groundY+80,120),p=this.add.rectangle(b/2,this.groundY+Q/2,b*4,Q,0,0).setScrollFactor(0);this.physics.add.existing(p,!0),this.ground.add(p);const S=d=>{this.groundY=d.height*Vt,this.path.setPosition(d.width/2,this.groundY+$/2),this.path.width=d.width+4};this.scale.on("resize",S),this.events.once(ct.Scenes.Events.SHUTDOWN,()=>{this.scale.off("resize",S)}),this.player=this.physics.add.sprite(b*.22,this.groundY+2,"crocodile"),this.player.setOrigin(.5,1),this.player.setScale(Ot),this.player.setCollideWorldBounds(!1),this.player.setDepth(10);const t=this.player.body;t.setSize(_t,te),t.setOffset(ee,ie),t.setMaxVelocity(600,1200),this.player.setBounce(0),this.player.play("run"),this.physics.add.collider(this.player,this.ground),this.hud=this.add.text(16,16,"…",{fontFamily:"Georgia, 'Times New Roman', serif",fontSize:"18px",color:Pt,fontStyle:"italic"}).setScrollFactor(0).setDepth(20),this.createControls(),this.startedAt=performance.now(),this.beginRun()}createControls(){var d,c,h,r;const{width:b,height:Z}=this.scale,$=(n,e,s)=>{const o=s+(e-s)*.55,i=Math.min(n*.28,120);return{upX:n*.5-i,downX:n*.5+i,y:o}},Q=$(b,Z,this.groundY),p=$t(this,Q.upX,Q.y,"up"),S=$t(this,Q.downX,Q.y,"down");this.controls=this.add.container(0,0,[p.root,S.root]).setDepth(30),p.hit.on("pointerdown",n=>{var e,s;(s=(e=n.event)==null?void 0:e.stopPropagation)==null||s.call(e),!this.dead&&(this.jumpBufferMs=Yt,this.setDuck(!1),this.tryJump())}),S.hit.on("pointerdown",n=>{var e,s;(s=(e=n.event)==null?void 0:e.stopPropagation)==null||s.call(e),!this.dead&&this.setDuck(!0)}),S.hit.on("pointerup",()=>this.setDuck(!1)),S.hit.on("pointerupoutside",()=>this.setDuck(!1)),(d=this.input.keyboard)==null||d.on("keydown-UP",()=>{this.dead||(this.jumpBufferMs=Yt,this.setDuck(!1),this.tryJump())}),(c=this.input.keyboard)==null||c.on("keydown-SPACE",()=>{this.dead||(this.jumpBufferMs=Yt,this.setDuck(!1),this.tryJump())}),(h=this.input.keyboard)==null||h.on("keydown-DOWN",()=>{this.dead||this.setDuck(!0)}),(r=this.input.keyboard)==null||r.on("keyup-DOWN",()=>this.setDuck(!1));const t=n=>{const e=n.height*Vt,s=$(n.width,n.height,e);p.root.setPosition(s.upX,s.y),S.root.setPosition(s.downX,s.y)};this.scale.on("resize",t),this.events.once(ct.Scenes.Events.SHUTDOWN,()=>{var n;this.scale.off("resize",t),(n=this.input.keyboard)==null||n.removeAllListeners()})}setDuck(b){if(this.ducking===b||b&&this.jumping)return;this.ducking=b;const Z=this.player.body;b?(Z.setSize(Fe,Le),Z.setOffset(Oe,De),this.player.setScale(Ot),this.player.play("lie",!0),this.haptic("light")):(Z.setSize(_t,te),Z.setOffset(ee,ie),this.player.setScale(Ot),this.dead||this.player.play("run",!0))}clearWorldObjects(){for(const b of this.obstacles)b.go.destroy();for(const b of this.coins)b.go.destroy();this.obstacles=[],this.coins=[]}haptic(b){var Z,$;try{($=(Z=Et())==null?void 0:Z.HapticFeedback)==null||$.impactOccurred(b)}catch{}}mulberry32(b){return()=>{let Z=b+=1831565813;return Z=Math.imul(Z^Z>>>15,Z|1),Z^=Z+Math.imul(Z^Z>>>7,Z|61),((Z^Z>>>14)>>>0)/4294967296}}freeLeft(){return Math.max(0,this.freeRevivesPerRun-this.reviveCount)}canContinue(){return this.freeLeft()>0||this.extraRevives>0}async beginRun(){if(this.rng=this.mulberry32(42),this.runId="local-dev",this.extraRevives=0,!(!Bt()||!zt()))try{const b=await St("/runs/start",{method:"POST",json:{}});this.runId=b.runId,this.seed=b.seed,this.freeRevivesPerRun=b.freeRevives??b.maxRevives??Xt,this.maxPackSize=b.maxPackSize??jt,this.starsPerAttempt=b.starsPerAttempt??kt,this.vpnBotUsername=b.vpnBotUsername;const Z=Number.parseInt(b.seed.slice(0,8),16)||1;this.rng=this.mulberry32(Z)}catch{this.runId="local-dev"}}tryJump(){const b=this.player.body;(b.blocked.down||b.touching.down||this.coyoteMs>0)&&this.jumpBufferMs>0&&(b.setVelocityY(Me),this.coyoteMs=0,this.jumpBufferMs=0,this.jumping=!0,this.player.play("jump",!0),this.haptic("medium"))}update(b,Z){try{this.tick(Z)}catch($){console.error("PlayScene tick error",$)}}tick(b){var S,t;if(this.dead)return;const Z=this.player.body;Z.blocked.down||Z.touching.down?(this.coyoteMs=Re,this.ducking?((S=this.player.anims.currentAnim)==null?void 0:S.key)!=="lie"&&this.player.play("lie",!0):this.jumping?(this.jumping=!1,this.player.play("run",!0)):((t=this.player.anims.currentAnim)==null?void 0:t.key)!=="run"&&this.player.play("run",!0)):this.coyoteMs=Math.max(0,this.coyoteMs-b),this.jumpBufferMs=Math.max(0,this.jumpBufferMs-b),this.jumpBufferMs>0&&this.tryJump(),this.scrollSpeed=Wt+Math.floor(this.distance/100)*we,this.maxSpeedSeen=Math.max(this.maxSpeedSeen,this.scrollSpeed/10);const Q=this.scrollSpeed*b/1e3;this.distance+=Q/Be,this.paper.tilePositionX+=Q,this.path.tilePositionX+=Q,this.spawnAcc+=b;const p=Math.max(1750-this.distance*.2,1300);this.spawnAcc>p&&(this.spawnAcc=0,this.spawnObstacle()),this.scrollWorld(Q,b),this.checkCollisions(),this.player.x=this.scale.width*.22,this.player.y>this.scale.height+80&&this.onHit(),this.hud.setText(`Дистанция: ${Math.floor(this.distance)} м
 Ключи: ${this.pickupCoins}
 Попытки: ${this.freeLeft()}`+(this.extraRevives>0?` + ${this.extraRevives}`:""))}scrollWorld(b,Z){for(let $=this.obstacles.length-1;$>=0;$--){const Q=this.obstacles[$];Q.go.x-=b,Q.kind==="saw"?Q.go.angle+=Q.spin*Z/1e3:Q.kind==="pendulum"&&(Q.phase+=Q.freq*Z/1e3,Q.go.setAngle(Math.sin(Q.phase)*Q.amp)),Q.go.x<-120&&(Q.go.destroy(),this.obstacles.splice($,1))}for(let $=this.coins.length-1;$>=0;$--){const Q=this.coins[$];Q.go.x-=b,Q.go.x<-60&&(Q.go.destroy(),this.coins.splice($,1))}}spawnObstacle(){const{width:b}=this.scale,Z=b+80,$=qt[this.obstacleIdx%qt.length];if(this.obstacleIdx+=1,$==="saw"){const c=.55+this.rng()*.35,h=96*c*.42,r=this.groundY-h-2,n=this.add.image(Z,r,"saw").setScale(c).setDepth(5),e=180+this.rng()*220;this.obstacles.push({go:n,kind:"saw",r:h,hw:0,hh:0,spin:e,phase:0,amp:0,freq:0,arm:0}),this.attachKeyForObstacle($,Z);return}if($==="spikes"){const c=.7+this.rng()*.15,h=96*c*.45,r=36*c*.45,n=this.add.image(Z,this.groundY+2,"spikes").setOrigin(.5,1).setScale(c).setDepth(5);this.obstacles.push({go:n,kind:"spikes",r:0,hw:h,hh:r,spin:0,phase:0,amp:0,freq:0,arm:0}),this.attachKeyForObstacle($,Z);return}if($==="spikes5"){const c=.42+this.rng()*.08,h=296*c*.45,r=68*c*.42,n=this.add.image(Z,this.groundY+2,"spikes5").setOrigin(.5,1).setScale(c).setDepth(5);this.obstacles.push({go:n,kind:"spikes5",r:0,hw:h,hh:r,spin:0,phase:0,amp:0,freq:0,arm:0}),this.attachKeyForObstacle($,Z);return}const Q=.95,p=168*Q,S=26*Q,t=this.groundY-p-S-26,d=this.add.image(Z,t,"pendulum").setOrigin(.5,0).setScale(Q).setDepth(5);this.obstacles.push({go:d,kind:"pendulum",r:S,hw:0,hh:0,spin:0,phase:this.rng()*Math.PI*2,amp:38+this.rng()*12,freq:2.2+this.rng()*.6,arm:p}),this.attachKeyForObstacle($,Z)}pendulumBall(b){const Z=ct.Math.DegToRad(b.go.angle);return{x:b.go.x-Math.sin(Z)*b.arm,y:b.go.y+Math.cos(Z)*b.arm}}spawnKeyAt(b,Z){const $=this.add.image(b,Z,"pickup-key").setDepth(6).setScale(.95+this.rng()*.15);this.coins.push({go:$,r:16,taken:!1})}attachKeyForObstacle(b,Z){if(b==="pendulum"){this.spawnKeyAt(Z,this.groundY-Ie);return}if(b==="spikes5"&&(this.spikes5Count+=1,this.spikes5Count%Ge===0)){this.spawnKeyAt(Z-Ne,this.groundY-se);return}this.spawnKeyAt(Z,this.groundY-se)}playerBounds(){const b=this.player.body;return new ct.Geom.Rectangle(b.x,b.y,b.width,b.height)}playerCollectBounds(){const b=It*Ot*.95,Z=It*Ot*.55;return new ct.Geom.Rectangle(this.player.x-Z/2,this.player.y-b,Z,b)}playerHazardBounds(){if(this.ducking)return this.playerBounds();const b=It*Ot*.88,Z=It*Ot*.38;return new ct.Geom.Rectangle(this.player.x-Z/2,this.player.y-b,Z,b)}checkCollisions(){const b=this.playerBounds(),Z=this.playerCollectBounds(),$=this.playerHazardBounds();for(const Q of this.obstacles){let p=!1;if(Q.kind==="saw")p=ct.Math.Distance.Between(Q.go.x,Q.go.y,b.centerX,b.centerY)<Q.r+Math.min(b.width,b.height)*.35;else if(Q.kind==="spikes"||Q.kind==="spikes5"){const S=Q.go.x-Q.hw,t=Q.go.x+Q.hw,d=Q.go.y-Q.hh*2,c=Q.go.y;p=ct.Geom.Rectangle.Overlaps(b,new ct.Geom.Rectangle(S,d,t-S,c-d))}else{const S=this.pendulumBall(Q);if(this.ducking){const t=b,d=S.y+Q.r*.65;p=Math.abs(S.x-t.centerX)<t.width*.5+Q.r*.45&&d>=t.y}else p=ct.Math.Distance.Between(S.x,S.y,$.centerX,$.centerY)<Q.r+Math.min($.width,$.height)*.28}if(p){this.onHit();return}}for(const Q of this.coins){if(Q.taken)continue;const p=new ct.Geom.Rectangle(Q.go.x-Q.r,Q.go.y-Q.r,Q.r*2,Q.r*2);ct.Geom.Rectangle.Overlaps(Z,p)&&(Q.taken=!0,Q.go.destroy(),this.pickupCoins+=1,this.haptic("light"))}this.coins=this.coins.filter(Q=>!Q.taken)}onHit(){if(this.dead)return;this.dead=!0,this.player.play("lie",!0),this.player.body.setVelocity(0,0),this.haptic("heavy"),this.time.delayedCall(0,()=>void this.showGameOver())}async showGameOver(){const{width:b,height:Z}=this.scale;this.overlay=this.add.container(0,0).setDepth(50);const $=this.add.rectangle(b/2,Z/2,b,Z,0,.45);this.overlay.add($),this.canContinue()?this.buildContinueOverlay(b,Z):this.buildTariffOverlay(b,Z)}buildContinueOverlay(b,Z){if(!this.overlay)return;const $=this.add.text(b/2,Z*.22,"Game Over",{fontFamily:"Georgia, 'Times New Roman', serif",fontSize:"32px",color:"#f4f1e8",fontStyle:"italic"}).setOrigin(.5),Q=this.add.text(b/2,Z*.34,`Дистанция ${Math.floor(this.distance)} м
 Ключи забега: ${this.pickupCoins}`,{fontFamily:"Georgia, 'Times New Roman', serif",fontSize:"16px",color:"#e8e2d4",align:"center",fontStyle:"italic"}).setOrigin(.5);this.overlay.add([$,Q]),this.addOverlayButton(b/2,Z*.5,"Продолжить",()=>{this.doContinue()}),this.addOverlayButton(b/2,Z*.6,"Забрать ключи",()=>{this.finishAndMenu()}),this.addOverlayButton(b/2,Z*.7,"В меню",()=>{this.finishAndMenu()}),this.addOverlayButton(b/2,Z*.8,"VPN-бот",()=>{var S,t;const p=`https://t.me/${this.vpnBotUsername}`;((t=(S=Et())==null?void 0:S.openTelegramLink)==null?void 0:t.call(S,p))??window.open(p,"_blank")})}buildTariffOverlay(b,Z){if(!this.overlay)return;const $=this.add.text(b/2,Z*.14,"Попытки закончились",{fontFamily:"Georgia, 'Times New Roman', serif",fontSize:"26px",color:"#f4f1e8",fontStyle:"italic"}).setOrigin(.5),Q=this.add.text(b/2,Z*.22,"Выбери пакет продолжений:",{fontFamily:"Georgia, 'Times New Roman', serif",fontSize:"15px",color:"#e8e2d4",fontStyle:"italic"}).setOrigin(.5);this.overlay.add([$,Q]);const p=["1 попытка","2 попытки","3 попытки","4 попытки","5 попыток"];let S=Z*.3;for(let t=1;t<=this.maxPackSize;t++){const d=t*this.starsPerAttempt,c=`${p[t-1]} — ${d}⭐`;this.addOverlayButton(b/2,S,c,()=>void this.buyPack(t),{width:260,height:40,fontSize:"17px"}),S+=Z*.09}this.addOverlayButton(b/2,S+Z*.02,"Забрать ключи",()=>{this.finishAndMenu()}),this.addOverlayButton(b/2,S+Z*.12,"В меню",()=>{this.finishAndMenu()})}addOverlayButton(b,Z,$,Q,p){if(!this.overlay)return;const S=Ct(this,b,Z,$,Q,{depth:51,paperFill:!0,width:p==null?void 0:p.width,height:p==null?void 0:p.height,fontSize:p==null?void 0:p.fontSize});this.overlay.add(S.root)}async doContinue(){if(this.canContinue()){if(!this.runId||this.runId==="local-dev"){this.freeLeft()>0?this.reviveCount+=1:this.extraRevives>0&&(this.extraRevives-=1,this.reviveCount+=1),this.resumeAfterRevive();return}try{const b=await St("/runs/continue",{method:"POST",json:{runId:this.runId}});this.reviveCount=b.reviveCount,this.extraRevives=b.extraRevives,this.resumeAfterRevive()}catch(b){alert(b.message)}}}async buyPack(b){var Z;if(!this.runId||this.runId==="local-dev"){this.extraRevives+=b,(Z=this.overlay)==null||Z.destroy(!0),this.overlay=void 0,this.showGameOver();return}try{const $=await St("/stars/revive-invoice",{method:"POST",json:{runId:this.runId,count:b}}),Q=Et();if(!(Q!=null&&Q.openInvoice)){alert("openInvoice недоступен.");return}Q.openInvoice($.invoiceLink,p=>{p==="paid"?this.syncPackPurchase():alert(`Оплата: ${p}`)})}catch($){alert($.message)}}async syncPackPurchase(){var b;if(this.runId&&this.runId!=="local-dev")try{for(let Z=0;Z<8;Z++){const $=await St(`/runs/${this.runId}`);if($.extraRevives>this.extraRevives){this.extraRevives=$.extraRevives,this.reviveCount=$.reviveCount;break}await new Promise(Q=>setTimeout(Q,400))}}catch{}(b=this.overlay)==null||b.destroy(!0),this.overlay=void 0,this.showGameOver()}resumeAfterRevive(){var Z;(Z=this.overlay)==null||Z.destroy(!0),this.overlay=void 0,this.dead=!1,this.clearWorldObjects(),this.obstacleIdx=0,this.spikes5Count=0,this.setDuck(!1),this.player.setPosition(this.scale.width*.22,this.groundY+2),this.player.body.setVelocity(0,0),this.jumping=!1,this.player.play("run",!0)}async finishAndMenu(){const b=Math.floor(performance.now()-this.startedAt),Z=Math.floor(this.distance);if(Ee(Z),this.runId&&this.runId!=="local-dev")try{const $=await St("/runs/finish",{method:"POST",json:{runId:this.runId,distance:Z,pickupCoins:this.pickupCoins,durationMs:b,clientMaxSpeed:this.maxSpeedSeen}});alert(`+${$.rewardCoins} ключей. Баланс: ${$.coinBalance}`)}catch($){alert($.message)}this.scene.start("menu")}}class ze extends ct.Scene{constructor(){super("leaderboard")}create(){const{width:et,height:b}=this.scale;Ut(this),this.add.text(et/2,b*.1,"Рекорды",{fontFamily:"Georgia, 'Times New Roman', serif",fontSize:"32px",color:Pt,fontStyle:"italic"}).setOrigin(.5),this.add.text(et/2,b*.17,"Топ-10 · дистанция",{fontFamily:"Georgia, 'Times New Roman', serif",fontSize:"16px",color:bt,fontStyle:"italic"}).setOrigin(.5);const Z=this.add.text(et/2,b*.26,"Загрузка…",{fontFamily:"Georgia, 'Times New Roman', serif",fontSize:"18px",color:Pt,fontStyle:"italic",align:"left",lineSpacing:10}).setOrigin(.5,0);Ct(this,et/2,b*.9,"В меню",()=>{this.scene.start("menu")}),Ae().then($=>{if(!$.length){Z.setText(`Пока пусто —

diff --git a/index.html b/index.html
@@ -23,10 +23,10 @@
         user-select: none;
       }
     </style>
-    <script type="module" crossorigin src="/DundeeGame3.0/assets/index-MHa5tng7.js"></script>
+    <script type="module" crossorigin src="/DundeeGame3.0/assets/index-B0GLzztb.js"></script>
   </head>
   <body>
-    <!-- build: hero-hockey-v5 -->
+    <!-- build: hero-hockey-v6 -->
     <div id="game"></div>
   </body>
 </html>
